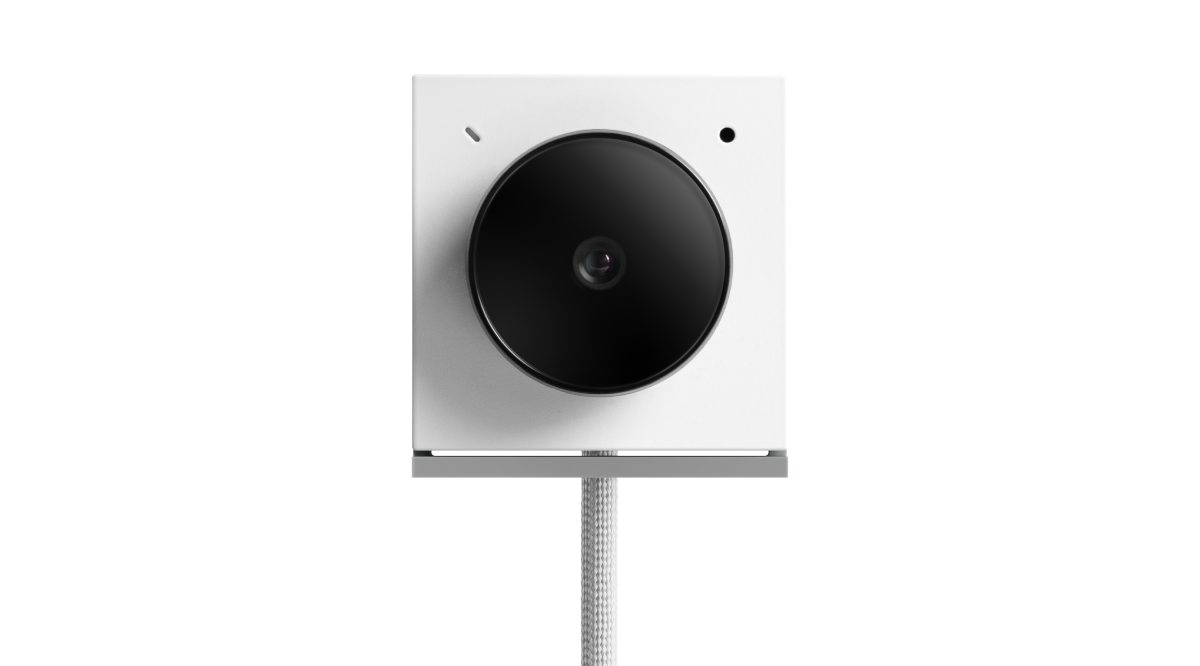
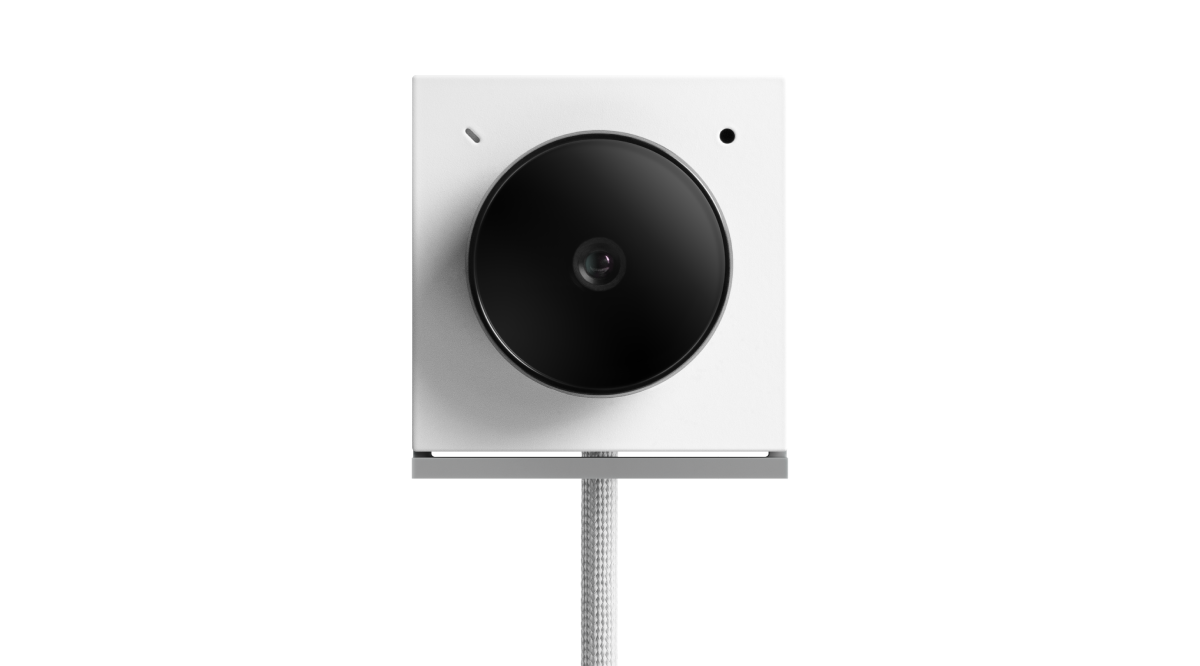
Add files via upload

diff --git a/index.html b/index.html
@@ -170,7 +170,7 @@
 									<h5 class="upup color01_t"><br>Комфорт и защищенность<br>
                                                                             доступа в помещение<br><br><br></h5>
                                     <a href="#" class="button primary">Подробнее</a>
-                                    <span class="image fit"><img src="imgs/tadpole.7f9aab77.png" alt=""></span>
+                                    <span class="image fit"><img src="imgs/services_01.png" alt=""></span>
                                 </section>
 								<section>
 									<span class="icon style2 major fa-gem"></span>
